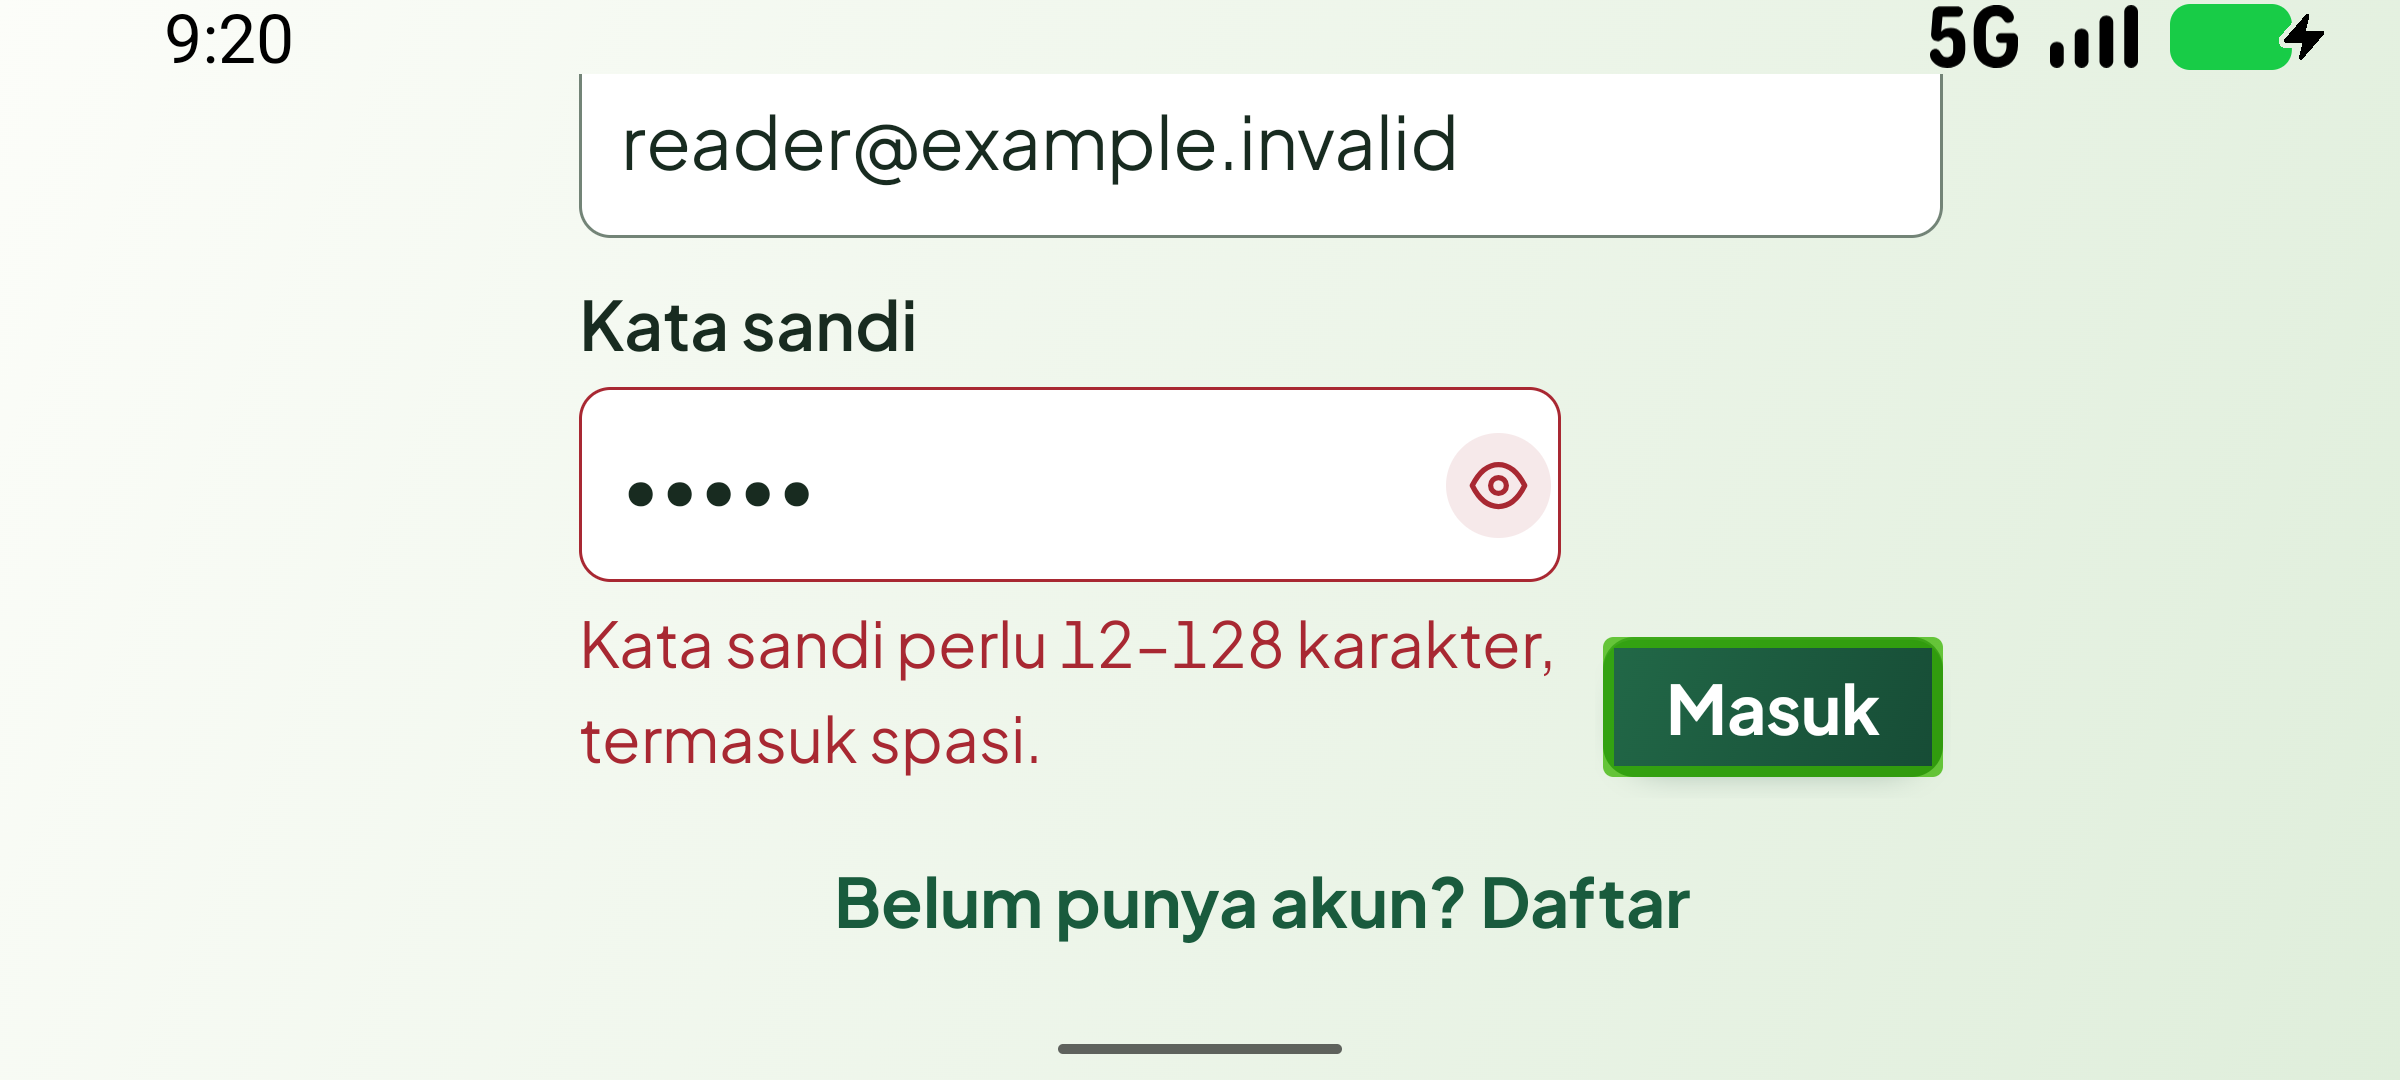
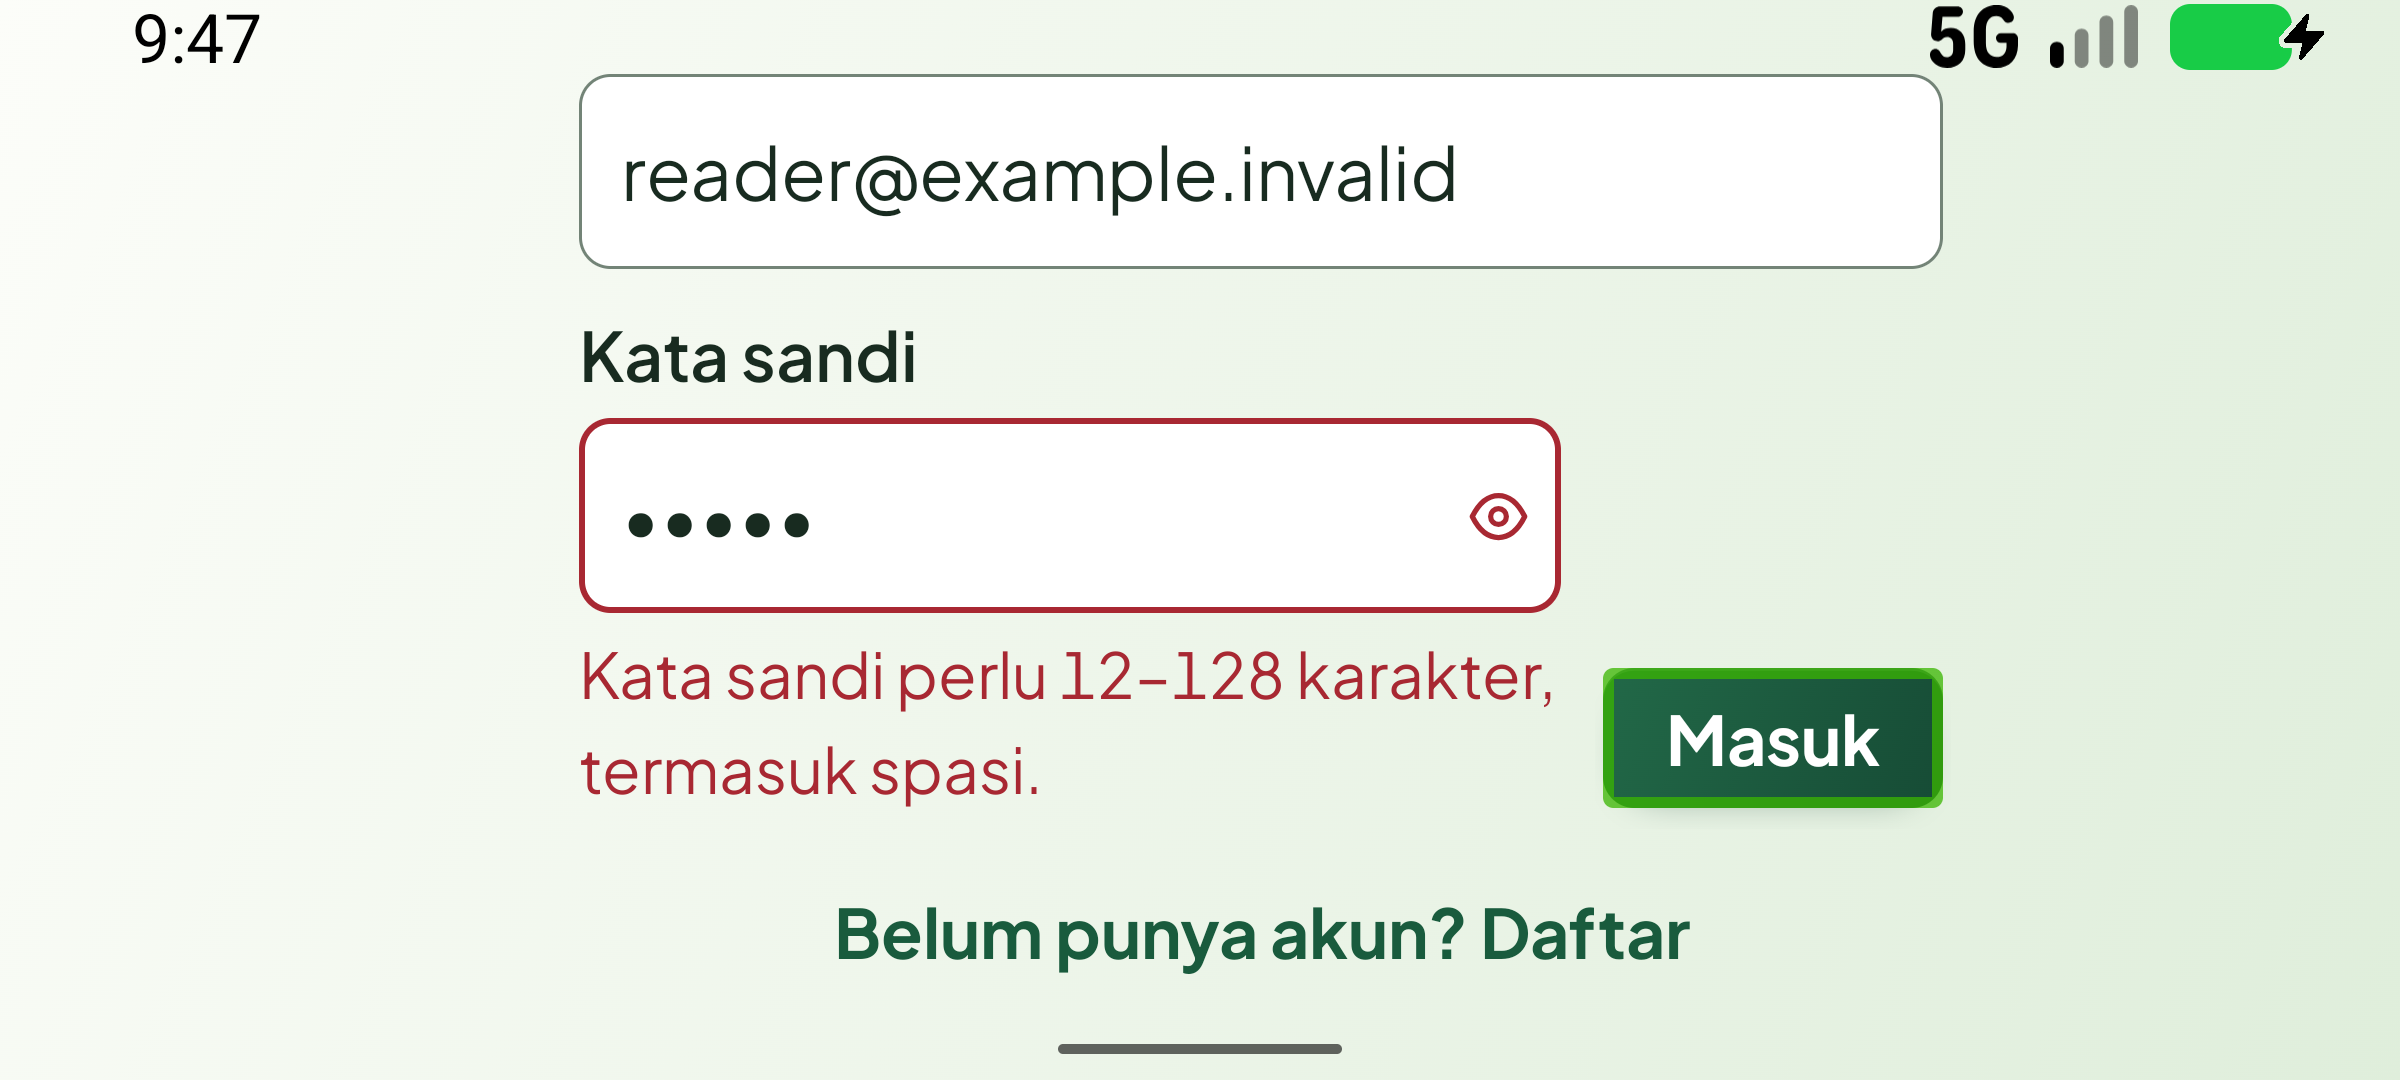
fix(auth): settle keyboard before landscape validation

diff --git a/app/src/androidTest/java/com/example/wastenot/ui/main/TalkBackNavigationTest.kt b/app/src/androidTest/java/com/example/wastenot/ui/main/TalkBackNavigationTest.kt
@@ -71,13 +71,17 @@ class TalkBackNavigationTest {
                     }
                 }
                 await("login screen") { text(appRoot(automation)).contains("Catat kebiasaanmu lagi.") }
-                fun isEmail(node: AccessibilityNodeInfo) = node.isEditable && text(node).contains("Email")
+                fun isEmail(node: AccessibilityNodeInfo) =
+                    node.className == "android.widget.EditText" && !node.isPassword && text(node).contains("Email")
                 fun isPassword(node: AccessibilityNodeInfo) = node.isEditable && node.isPassword
-                seek(automation, { shortcut(79) }, ::isEmail)
                 val passwordBeforeKeyboard = findNode(appRoot(automation), ::isPassword)
                 // Set up the password field within the form after Gboard may have taken focus.
                 await("enter fixture email") {
-                    findNode(appRoot(automation), ::isEmail)?.let { setText(it, "reader@example.invalid") } == true
+                    val root = appRoot(automation)
+                    val email = findNode(root, ::isEmail)
+                    if (email != null) return@await setText(email, "reader@example.invalid")
+                    findNode(root) { it.isScrollable }?.performAction(AccessibilityNodeInfo.ACTION_SCROLL_FORWARD)
+                    false
                 }
                 await("focus the password input") {
                     val field = findNode(appRoot(automation), ::isPassword)
@@ -96,7 +100,9 @@ class TalkBackNavigationTest {
                 await("enter fixture password") {
                     findNode(appRoot(automation), ::isPassword)?.let { setText(it, "short") } == true
                 }
-                focusPasswordToggle(automation)
+                focusFormControl(automation, "password visibility") {
+                    it.contentDescription == "Tampilkan kata sandi"
+                }
                 shortcut(79)
                 await("TalkBack moves from password visibility to Masuk") {
                     automation.findFocus(AccessibilityNodeInfo.FOCUS_ACCESSIBILITY)?.let(::isSubmit) == true
@@ -106,12 +112,15 @@ class TalkBackNavigationTest {
                 shortcut(clickKey)
                 val error = "Kata sandi perlu 12–128 karakter, termasuk spasi."
                 await("password validation") { text(appRoot(automation)).contains(error) }
-                if (landscape) await("landscape validation dismisses the keyboard") { !keyboardVisible() }
-                val focusedAfterSubmit = automation.findFocus(AccessibilityNodeInfo.FOCUS_ACCESSIBILITY)
-                // Validation is between the password input and Masuk. Refocusing the invalid input
-                // can move TalkBack there automatically when the keyboard scrolls the form.
-                val towardValidation = if (focusedAfterSubmit?.let(::isSubmit) == true) 80 else 79
-                seek(automation, { shortcut(towardValidation) }) { text(it).contains(error) }
+                if (landscape) {
+                    await("landscape validation dismisses the keyboard") { !keyboardVisible() }
+                    // Explore the visible inline message after the IME window closes.
+                    focusFormControl(automation, "password validation message") { it.text?.toString() == error }
+                } else {
+                    val focusedAfterSubmit = automation.findFocus(AccessibilityNodeInfo.FOCUS_ACCESSIBILITY)
+                    val towardValidation = if (focusedAfterSubmit?.let(::isSubmit) == true) 80 else 79
+                    seek(automation, { shortcut(towardValidation) }) { text(it).contains(error) }
+                }
                 if (recordSpeech) SystemClock.sleep(5_000)
                 seek(automation, { shortcut(79) }) { isSubmit(it) }
                 assertTrue(manager.isTouchExplorationEnabled)
@@ -129,20 +138,23 @@ class TalkBackNavigationTest {
         it.type == AccessibilityWindowInfo.TYPE_APPLICATION && it.root?.packageName == "com.example.wastenot"
     }?.root
 
-    private fun focusPasswordToggle(automation: UiAutomation) {
-        // Setting text can move accessibility focus to Gboard. Start traversal from the last form control.
-        fun isToggle(node: AccessibilityNodeInfo) =
-            node.contentDescription == "Tampilkan kata sandi" && node.isVisibleToUser
+    private fun focusFormControl(
+        automation: UiAutomation,
+        label: String,
+        matches: (AccessibilityNodeInfo) -> Boolean,
+    ) {
+        fun isControl(node: AccessibilityNodeInfo) =
+            node.packageName == "com.example.wastenot" && node.isVisibleToUser && matches(node)
         var focusedSince: Long? = null
-        await("TalkBack focus returned to the form") {
+        await("TalkBack focused $label") {
             val focused = automation.findFocus(AccessibilityNodeInfo.FOCUS_ACCESSIBILITY)
-            if (focused?.let(::isToggle) == true) {
+            if (focused?.let(::isControl) == true) {
                 val now = SystemClock.uptimeMillis()
                 val start = focusedSince ?: now.also { focusedSince = it }
                 return@await now - start >= 600
             }
             focusedSince = null
-            findNode(appRoot(automation), ::isToggle)?.performAction(AccessibilityNodeInfo.ACTION_ACCESSIBILITY_FOCUS)
+            findNode(appRoot(automation), ::isControl)?.performAction(AccessibilityNodeInfo.ACTION_ACCESSIBILITY_FOCUS)
             false
         }
     }

diff --git a/app/src/main/java/com/example/wastenot/ui/auth/AuthScreen.kt b/app/src/main/java/com/example/wastenot/ui/auth/AuthScreen.kt
@@ -25,7 +25,6 @@ import androidx.compose.material3.Text
 import androidx.compose.runtime.Composable
 import androidx.compose.runtime.LaunchedEffect
 import androidx.compose.runtime.remember
-import androidx.compose.runtime.withFrameNanos
 import androidx.compose.ui.Alignment
 import androidx.compose.ui.Modifier
 import androidx.compose.ui.autofill.ContentType
@@ -34,7 +33,7 @@ import androidx.compose.ui.focus.FocusRequester
 import androidx.compose.ui.focus.focusRequester
 import androidx.compose.ui.platform.LocalConfiguration
 import androidx.compose.ui.platform.LocalFocusManager
-import androidx.compose.ui.platform.LocalSoftwareKeyboardController
+import androidx.compose.ui.platform.LocalView
 import androidx.compose.ui.res.stringResource
 import androidx.compose.ui.res.painterResource
 import androidx.compose.ui.semantics.LiveRegionMode
@@ -47,6 +46,8 @@ import androidx.compose.ui.text.input.ImeAction
 import androidx.compose.ui.text.input.KeyboardCapitalization
 import androidx.compose.ui.text.input.KeyboardType
 import androidx.compose.ui.unit.dp
+import androidx.core.view.ViewCompat
+import androidx.core.view.WindowInsetsCompat
 import com.example.wastenot.R
 import com.example.wastenot.data.network.ApiFailureKind
 import com.example.wastenot.data.repository.SignOutReason
@@ -60,6 +61,7 @@ import com.example.wastenot.ui.components.WasteTextField
 import com.example.wastenot.theme.LocalWasteNotGradients
 import com.example.wastenot.theme.OnAccent
 import com.example.wastenot.theme.WasteNotAuthHeading
+import kotlinx.coroutines.delay
 
 @Composable
 fun AuthScreen(
@@ -76,18 +78,22 @@ fun AuthScreen(
     onBack: (() -> Unit)? = null,
 ) {
     val focus = LocalFocusManager.current
-    val keyboard = LocalSoftwareKeyboardController.current
+    val view = LocalView.current
     val requesters = remember { AccountField.entries.associateWith { FocusRequester() } }
     val landscapeLogin = !register && LocalConfiguration.current.orientation == Configuration.ORIENTATION_LANDSCAPE
     val submitRequester = remember { BringIntoViewRequester() }
     LaunchedEffect(state.focusRequest) {
         val first = state.errors.keys.firstOrNull() ?: state.serverFields.firstOrNull()
-        if (state.focusRequest > 0 && first != null) requesters.getValue(first).requestFocus()
+        if (state.focusRequest <= 0 || first == null) return@LaunchedEffect
         if (landscapeLogin && first == AccountField.PASSWORD) {
             // Make room for validation and the retry action in the short landscape viewport.
-            keyboard?.hide()
-            withFrameNanos { }
+            focus.clearFocus()
+            // Android can enqueue another IME show while replacing the active text input.
+            delay(120)
+            ViewCompat.getWindowInsetsController(view)?.hide(WindowInsetsCompat.Type.ime())
             submitRequester.bringIntoView()
+        } else {
+            requesters.getValue(first).requestFocus()
         }
     }
     val next = KeyboardActions(onNext = { focus.moveFocus(FocusDirection.Next) }, onDone = { onSubmit() })

diff --git a/docs/qa/iteration-2/ANDROID_HANDOFF_112.md b/docs/qa/iteration-2/ANDROID_HANDOFF_112.md
@@ -36,9 +36,9 @@ adb shell am instrument -w -e talkback true -e talkbackKeymap enhanced -e class 
 
 ### Masuk di landscape
 
-Pada build awal, area form yang tersisa saat Gboard terbuka pada font 200% bisa memotong tombol Masuk di bawah kata sandi. Di layout landscape, tombol sekarang berada di samping kata sandi dan sejajar dengan bagian bawah pesan validasi. Grup traversal menjaga urutan kolom kata sandi, kontrol visibilitas, validasi, lalu Masuk. Jika validasi mengembalikan fokus ke kata sandi, layar menutup Gboard dan menggulir seperlunya agar pesan dan tombol bisa diperiksa. [Dokumentasi traversal Compose](https://developer.android.com/develop/ui/compose/accessibility/traversal)
+Pada build awal, area form yang tersisa saat Gboard terbuka pada font 200% bisa memotong tombol Masuk di bawah kata sandi. Di layout landscape, tombol sekarang berada di samping kata sandi dan sejajar dengan bagian bawah pesan validasi. Grup traversal menjaga urutan kolom kata sandi, kontrol visibilitas, validasi, lalu Masuk. Saat validasi kata sandi muncul, layar melepas fokus input, memberi Android waktu menyelesaikan antrean perubahan IME, lalu menutup Gboard dan menggulir seperlunya. Pengguna dapat memilih kembali kolom kata sandi untuk mengoreksi isian. [Dokumentasi traversal Compose](https://developer.android.com/develop/ui/compose/accessibility/traversal)
 
-Enam pengulangan berturut-turut lulus di emulator Android 17/API 37, font 200%. Tes memastikan Activity benar-benar landscape. Dengan Gboard terbuka, satu langkah TalkBack dari Tampilkan kata sandi harus mencapai Masuk. Aktivasi menampilkan validasi kata sandi dan menutup Gboard. Tes menemukan pesan dari posisi fokus setelah submit, lalu maju untuk kembali ke Masuk. [Fokus setelah validasi](handoff-112/talkback-masuk-landscape-font200.png), [hasil native](handoff-112/talkback-masuk-landscape.log)
+Enam pengulangan berturut-turut lulus di emulator Android 17/API 37 dengan font 200%, termasuk dua pengulangan dengan jeda perekaman ucapan. Tes memastikan Activity benar-benar landscape. Dengan Gboard terbuka, satu langkah TalkBack dari Tampilkan kata sandi harus mencapai Masuk. Aktivasi menampilkan validasi kata sandi dan menutup Gboard. Tes memfokuskan teks validasi yang terlihat melalui aksi aksesibilitas, kemudian kembali ke Masuk dengan pintasan maju TalkBack. [Fokus setelah validasi](handoff-112/talkback-masuk-landscape-font200.png), [hasil native](handoff-112/talkback-masuk-landscape.log)
 
 ```sh
 adb shell wm user-rotation lock 1
